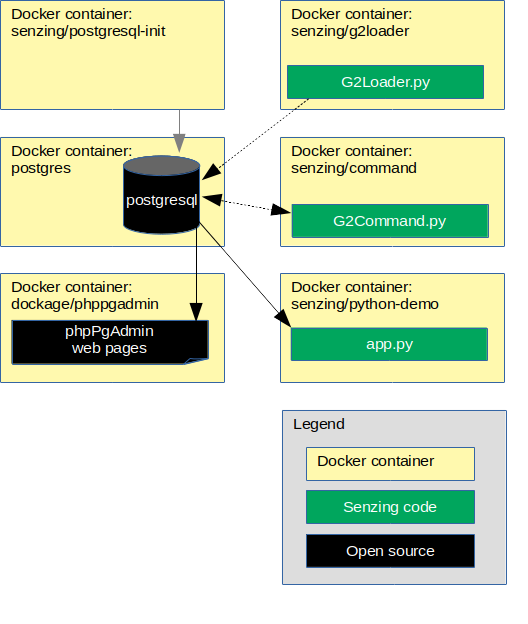
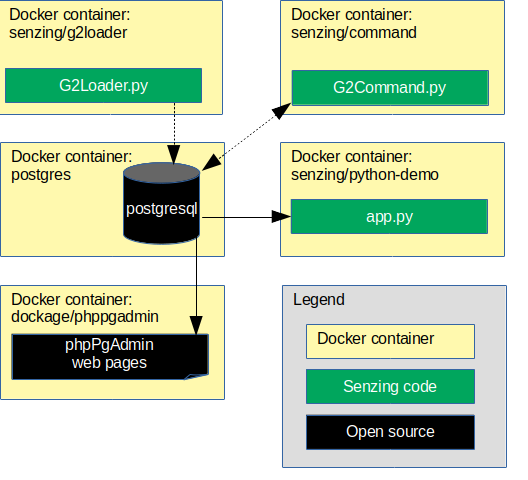
issue-1 Updated architecture image

diff --git a/README.md b/README.md
@@ -20,7 +20,6 @@ Also shown in the demonstration are commands to run the following Docker images:
 ### Contents
 
 1. [Preparation](#preparation)
-    1. [Set environment variables](#set-environment-variables)
     1. [Clone repository](#clone-repository)
     1. [Create SENZING_DIR](#create-senzing_dir)
     1. [Prerequisite Software](#prerequisite-software)
@@ -28,7 +27,7 @@ Also shown in the demonstration are commands to run the following Docker images:
     1. [Build docker images](#build-docker-images)
     1. [Configuration](#configuration)
     1. [Launch docker formation](#launch-docker-formation)
-    1. [Test docker formation](#test-docker-formation)
+    1. [Initialize database](#initialize-database)
     1. [Run G2Loader.py](#run-g2loaderpy)
     1. [Run G2Command.py](#run-g2commandpy)
 1. [Cleanup](#cleanup)
@@ -142,6 +141,8 @@ The following software programs need to be installed.
 
     sudo docker-compose up
     ```
+    
+    **Note:** `senzing-app` errors will be seen in the log until the database has been initialized in the next step.
 
 ### Initialize database
 
@@ -173,7 +174,7 @@ In a separate terminal window:
     export DATABASE_PROTOCOL=postgresql
     export DATABASE_USERNAME=postgres
     export DATABASE_PASSWORD=postgres
-    export DATABASE_HOST=senzing-postgresql
+    export DATABASE_HOST=senzing-postgres
     export DATABASE_PORT=5432
     export DATABASE_DATABASE=G2
 
@@ -205,11 +206,11 @@ In a separate terminal window:
 1. Run `docker` command. Example:
 
     ```console
-    export DATABASE_PROTOCOL=mysql
-    export DATABASE_USERNAME=root
-    export DATABASE_PASSWORD=root
-    export DATABASE_HOST=senzing-mysql
-    export DATABASE_PORT=3306
+    export DATABASE_PROTOCOL=postgresql
+    export DATABASE_USERNAME=postgres
+    export DATABASE_PASSWORD=postgres
+    export DATABASE_HOST=senzing-postgres
+    export DATABASE_PORT=5432
     export DATABASE_DATABASE=G2
 
     export SENZING_DATABASE_URL="${DATABASE_PROTOCOL}://${DATABASE_USERNAME}:${DATABASE_PASSWORD}@${DATABASE_HOST}:${DATABASE_PORT}/${DATABASE_DATABASE}"
